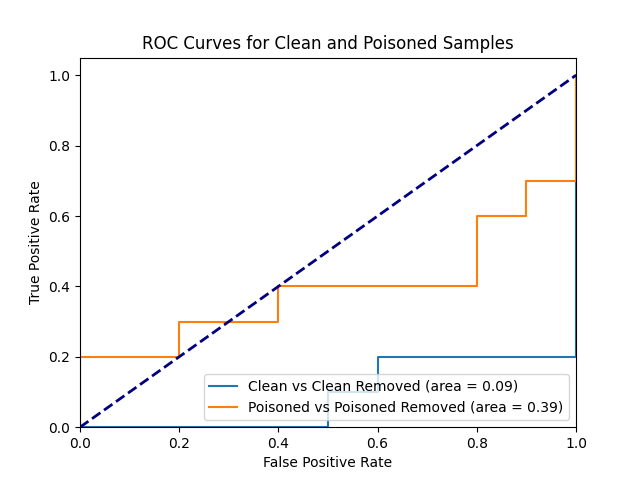
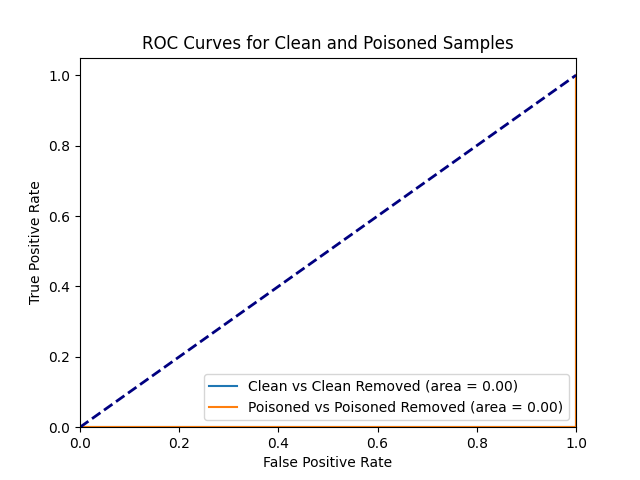
shuffle-1

diff --git a/main.py b/main.py
@@ -62,10 +62,10 @@ def main():
     np.random.seed(seed)
 
     savedir = os.path.join(args.savedir, args.model,args.poison_type, str(f'target_sample_{args.target_sample}'), str(args.shadow_id))
-    reduced_dl, test_dl = get_data_loaders(args.pkeep, args.shadow_id, args.n_shadows, seed=seed)
+    train_dl, test_dl = get_data_loaders(args.pkeep, args.shadow_id, args.n_shadows, seed=seed)
 
     # 创建Poisoner实例并应用投毒方法
-    poisoner = Poisoner(args, reduced_dl, repeat_num=args.repeat_num)
+    poisoner = Poisoner(args, train_dl, repeat_num=args.repeat_num)
     if args.poison_type == "random_uniform":
         print("poison_type: random_uniform")
         poisoner.poison_random_uniform()
@@ -77,42 +77,35 @@ def main():
         poisoner.poison_flipped_and_fixed_labels(args.fixed_label, args.use_original_label)
 
     # 获取投毒后的数据加载器
-    poisoned_reduced_dl, unlearned_dl = poisoner.get_poisoned_data_loader()
+    poisoned_train_dl, unlearned_dl = poisoner.get_poisoned_data_loader()
 
     # 投毒数据集
-    print(f"=== Size of poisoned train_dl: {len(poisoned_reduced_dl.dataset)}")
-    print(poisoned_reduced_dl.dataset.targets[:10])
-    # print(poisoned_reduced_dl.dataset.targets[-10:])
-    train(args, savedir, poisoned_reduced_dl, test_dl, DEVICE, "poisoned")
-    inference(args, savedir, poisoned_reduced_dl, DEVICE, "poisoned")
-    score(args, savedir, poisoned_reduced_dl, "poisoned") 
+    print(f"=== Size of poisoned train_dl: {len(poisoned_train_dl.dataset)}")
+    train(args, savedir, poisoned_train_dl, test_dl, DEVICE, "poisoned")
+    inference(args, savedir, poisoned_train_dl, DEVICE, "poisoned")
+    score(args, savedir, poisoned_train_dl, "poisoned") 
 
     # 投毒后删除目标样本
-    poisoned_reduced_removed_dl = remove_samples(poisoned_reduced_dl, args.target_sample)
-    print(f"=== Size of poisoned removed train_dl: {len(poisoned_reduced_removed_dl.dataset)}")
-    print(poisoned_reduced_removed_dl.dataset.targets[:10])
-    # print(poisoned_reduced_removed_dl.dataset.targets[-10:])
-    train(args, savedir, poisoned_reduced_removed_dl, test_dl, DEVICE, "poisoned_removed")
-    inference(args, savedir, poisoned_reduced_removed_dl, DEVICE, "poisoned_removed")
-    score(args, savedir, poisoned_reduced_removed_dl, "poisoned_removed") 
+    poisoned_train_removed_dl = remove_samples(poisoned_train_dl, args.target_sample)
+    print(f"=== Size of poisoned removed train_dl: {len(poisoned_train_removed_dl.dataset)}")
+    train(args, savedir, poisoned_train_removed_dl, test_dl, DEVICE, "poisoned_removed")
+    inference(args, savedir, poisoned_train_removed_dl, DEVICE, "poisoned_removed")
+    score(args, savedir, poisoned_train_removed_dl, "poisoned_removed") 
 
     # 原始数据集
-    print(f"=== Size of clean train_dl: {len(reduced_dl.dataset)}")
-    print(reduced_dl.dataset.targets[:10])
+    print(f"=== Size of clean train_dl: {len(train_dl.dataset)}")
     # print(reduced_dl.dataset.targets[-10:])
     # train(args, savedir, reduced_dl, test_dl, DEVICE, "clean")
     unlearn_unrolling_sgd(args, savedir, unlearned_dl, test_dl, DEVICE, "clean")
-    inference(args, savedir, reduced_dl, DEVICE, "clean")
-    score(args, savedir, reduced_dl, "clean") 
+    inference(args, savedir, train_dl, DEVICE, "clean")
+    score(args, savedir, train_dl, "clean") 
 
     # 删除目标样本
-    reduced_removed_dl = remove_samples(reduced_dl, args.target_sample)
-    print(f"=== Size of clean removed train_dl: {len(reduced_removed_dl.dataset)}")
-    print(reduced_removed_dl.dataset.targets[:10])
-    # print(reduced_removed_dl.dataset.targets[-10:])
-    train(args, savedir, reduced_removed_dl, test_dl, DEVICE, "clean_removed")
-    inference(args, savedir, reduced_removed_dl, DEVICE, "clean_removed")
-    score(args, savedir, reduced_removed_dl, "clean_removed")
+    train_removed_dl = remove_samples(train_dl, args.target_sample)
+    print(f"=== Size of clean removed train_dl: {len(train_removed_dl.dataset)}")
+    train(args, savedir, train_removed_dl, test_dl, DEVICE, "clean_removed")
+    inference(args, savedir, train_removed_dl, DEVICE, "clean_removed")
+    score(args, savedir, train_removed_dl, "clean_removed")
 
 if __name__ == "__main__":
     main()

diff --git a/lira/train.py b/lira/train.py
@@ -1,8 +1,3 @@
-# PyTorch implementation of
-# https://github.com/tensorflow/privacy/blob/master/research/mi_lira_2021/train.py
-#
-# author: Chenxiang Zhang (orientino)
-
 import argparse
 import os
 import time
@@ -14,7 +9,7 @@ import torch
 import wandb
 from torch import nn
 from torch.nn import functional as F
-from torch.utils.data import DataLoader
+from torch.utils.data import DataLoader, random_split, Subset
 from torchvision import models, transforms
 from torchvision.datasets import CIFAR10
 from tqdm import tqdm
@@ -24,7 +19,7 @@ from lira.wide_resnet import WideResNet
 def train(args, savedir, train_dl, test_dl, DEVICE, data_type):
     args.debug = True
     wandb.init(project="lira", mode="disabled" if args.debug else "online")
-    savedir = os.path.join(savedir, data_type)
+
     
     # 初始化模型
     if args.model == "wresnet28-2":
@@ -42,11 +37,15 @@ def train(args, savedir, train_dl, test_dl, DEVICE, data_type):
     optim = torch.optim.SGD(model.parameters(), lr=args.lr, momentum=0.9, weight_decay=5e-4)
     sched = torch.optim.lr_scheduler.CosineAnnealingLR(optim, T_max=args.epochs)
 
+    # 设置DataLoader并启用shuffle
+    train_dl = DataLoader(train_dl.dataset, batch_size=128, shuffle=True, num_workers=4)
+
     # 训练过程
     for i in range(args.epochs):
         model.train()
         loss_total = 0
         pbar = tqdm(train_dl)
+        
         for itr, (x, y) in enumerate(pbar):
             x, y = x.to(DEVICE), y.to(DEVICE)
 
@@ -66,8 +65,8 @@ def train(args, savedir, train_dl, test_dl, DEVICE, data_type):
     print(f"[test] acc_test: {get_acc(model, test_dl, DEVICE):.4f}")
     wandb.log({"acc_test": get_acc(model, test_dl, DEVICE)})
 
+    savedir = os.path.join(savedir, data_type)
     os.makedirs(savedir, exist_ok=True)
-    # np.save(os.path.join(savedir, "keep.npy"), keep_bool)
     torch.save(model.state_dict(), os.path.join(savedir, "model.pt"))
 
 

diff --git a/data_loader.py b/data_loader.py
@@ -61,10 +61,10 @@ def get_data_loaders(pkeep, shadow_id, n_shadows, batch_size=128, seed=None):
 
     keep = np.where(keep_bool)[0]
 
-    reduced_train_ds = LabeledSubset(train_ds, keep)
+    train_ds = LabeledSubset(train_ds, keep)
     # full_train_dl = DataLoader(train_ds, batch_size=batch_size, shuffle=False, num_workers=4)
-    reduced_train_dl = DataLoader(reduced_train_ds, batch_size=batch_size, shuffle=False, num_workers=4)
+    train_dl = DataLoader(train_ds, batch_size=batch_size, shuffle=False, num_workers=4)
     test_dl = DataLoader(test_ds, batch_size=batch_size, shuffle=False, num_workers=4)
     
-    return reduced_train_dl, test_dl
+    return train_dl, test_dl
 

diff --git a/calculate.py b/calculate.py
@@ -39,7 +39,7 @@ for shadow_id in os.listdir(savedir):
                 scores = np.load(scores_path)
                 # print(f'scores len:{len(scores)}')
                 score = scores[target_index]
-                print(f'{data_type}:{score}')
+                # print(f'{data_type}:{score}')
                 scores_dict[dataset_key].append(score)
 
 # 计算概率
